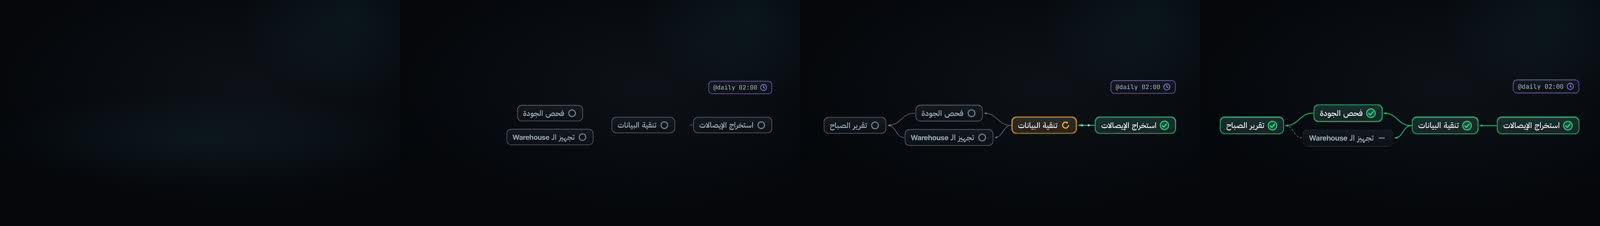
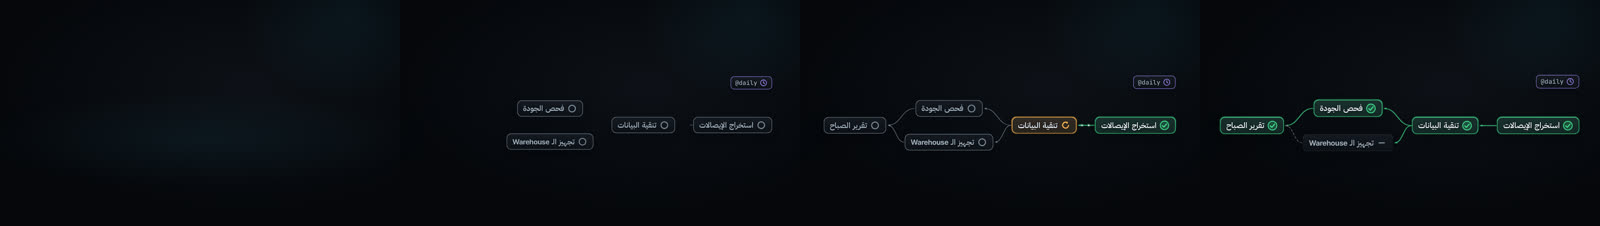
P7 DagRun: demo schedule chip without an unsourced number; snap PASS det 0 (pending-critic), perf lite 0.112 / standard 0.186 / hero 0.141 box s/frame, qa arabic PASS
Claude-Session: https://claude.ai/code/session_01VrU9wxU8GmuhdhWAAHnnQ8

diff --git a/studio/src/demos/struct-a.tsx b/studio/src/demos/struct-a.tsx
@@ -119,7 +119,7 @@ const demos: DemoModule = {
             component: 'DagRun',
             props: {
               id: 'nightly',
-              schedule: '@daily 02:00',
+              schedule: '@daily',
               tasks: [
                 {id: 'extract', label: 'استخراج الإيصالات'},
                 {id: 'clean', label: 'تنقية البيانات'},

diff --git a/docs/p7/catalog_status/struct-a.md b/docs/p7/catalog_status/struct-a.md
@@ -1,0 +1,5 @@
+# P7 catalog status: group struct-a (Structure & flow)
+
+| Component | Status | Note |
+|---|---|---|
+| DagRun | implemented | snap PASS det 0 (pending-critic); perf box s/frame lite 0.112 / standard 0.186 / hero 0.141; qa arabic PASS; demo schedule chip "@daily" (no invented numbers) |
